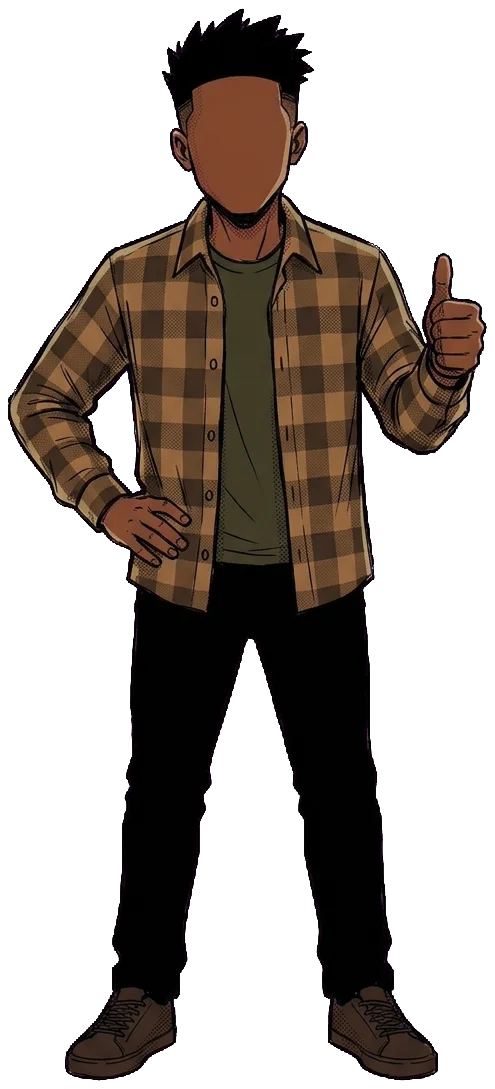
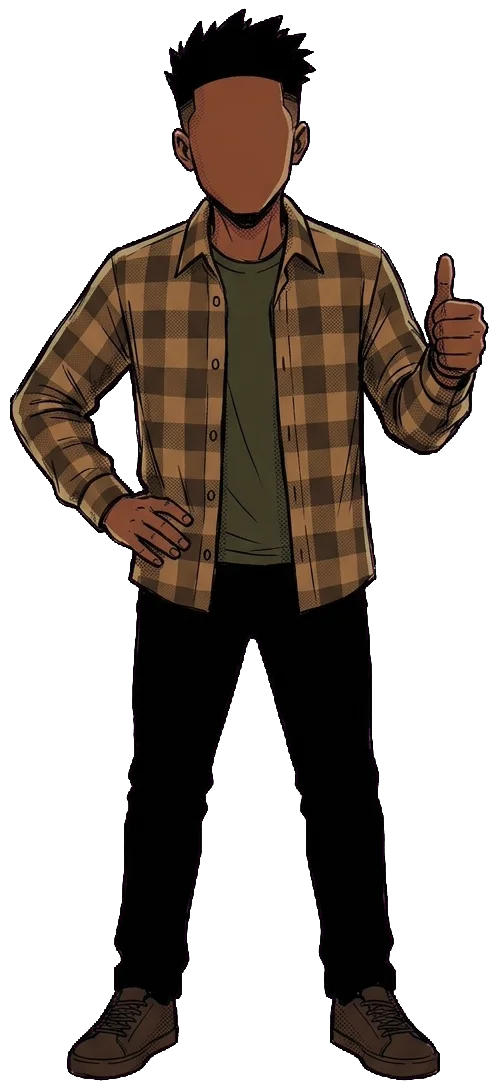
feat: click animations for every pose from Gemini frames
Clicking a figure plays a short clip of drawn frames: the hero waves (and
turns), pointing figures tap, the hanging ones do a pull-up, the sitting ones
kick their legs, thumbs-up goes double. CSS adds a body beat while a clip
plays (hop, bigger swing, pop) and the corner figure wiggles as his card
opens. Frames of a pose share one trim rectangle (new CROP option in the
cutout script) so they swap in place; a check guards that. Reduced motion
shows the key frame briefly instead of a sequence.

diff --git a/components/AnimatedPose.tsx b/components/AnimatedPose.tsx
@@ -1,0 +1,101 @@
+"use client";
+
+// A pose that plays a short clip when clicked: it swaps through drawn frames
+// (from public/character/cut/) while CSS adds body motion via data-playing.
+// The figures are a playful extra, not content, so they stay out of the tab
+// order (the hero's turn button is the keyboard-reachable one). With reduced
+// motion, a click shows the clip's key frame briefly instead of a sequence.
+
+import { useEffect, useRef, useState } from "react";
+import Pose, { type PoseName } from "./Pose";
+
+type Clip = {
+  /** Frames to step through; the last should be the pose itself. */
+  frames: string[];
+  /** Milliseconds per frame. */
+  ms: number;
+  /** The frame to show alone under reduced motion. */
+  key: string;
+};
+
+export const CLIPS: Partial<Record<PoseName, Clip>> = {
+  // waves the hand back and forth
+  wave: { frames: ["wave-a", "wave-b", "wave-a", "wave-b", "wave"], ms: 150, key: "wave-b" },
+  // a pull-up: up, hold, down
+  hang: { frames: ["hang-up", "hang-up", "hang-up", "hang"], ms: 220, key: "hang-up" },
+  // taps the point twice
+  point: { frames: ["point-back", "point-out", "point-back", "point-out", "point"], ms: 150, key: "point-back" },
+  // kicks his legs on the ledge
+  sit: { frames: ["sit-fwd", "sit-back", "sit-fwd", "sit-back", "sit"], ms: 170, key: "sit-fwd" },
+  // switches to a double thumbs up and holds it
+  thumbs: { frames: ["thumbs-double", "thumbs-double", "thumbs-double", "thumbs-double", "thumbs"], ms: 220, key: "thumbs-double" },
+};
+
+/** Plays a pose's clip; returns the current frame and a trigger. */
+export function useClip(pose: PoseName) {
+  const clip = CLIPS[pose];
+  const [frame, setFrame] = useState<string | undefined>();
+  const timers = useRef<number[]>([]);
+  const preloaded = useRef(false);
+
+  const preload = () => {
+    if (!clip || preloaded.current) return;
+    preloaded.current = true;
+    for (const f of new Set(clip.frames)) new Image().src = `/character/cut/${f}.webp`;
+  };
+
+  const play = () => {
+    if (!clip) return;
+    preload();
+    timers.current.forEach(clearTimeout);
+    const reduce = window.matchMedia("(prefers-reduced-motion: reduce)").matches;
+    const steps = reduce ? [clip.key, clip.frames[clip.frames.length - 1]] : clip.frames;
+    const ms = reduce ? 1200 : clip.ms;
+    setFrame(steps[0]);
+    timers.current = steps.slice(1).map((f, i) =>
+      window.setTimeout(() => setFrame(i === steps.length - 2 ? undefined : f), ms * (i + 1)),
+    );
+  };
+
+  useEffect(() => () => timers.current.forEach(clearTimeout), []);
+
+  return { frame, playing: frame !== undefined, play, preload };
+}
+
+export default function AnimatedPose({
+  pose,
+  flip,
+  className = "",
+}: {
+  pose: PoseName;
+  flip?: boolean;
+  className?: string;
+}) {
+  const { frame, playing, play, preload } = useClip(pose);
+  const ref = useRef<HTMLDivElement>(null);
+
+  // Fetch the frames once the figure is close to the screen, so the first
+  // click never shows a blank frame.
+  useEffect(() => {
+    const el = ref.current;
+    if (!el) return;
+    const io = new IntersectionObserver(
+      (entries) => {
+        if (entries.some((e) => e.isIntersecting)) {
+          preload();
+          io.disconnect();
+        }
+      },
+      { rootMargin: "300px" },
+    );
+    io.observe(el);
+    return () => io.disconnect();
+    // eslint-disable-next-line react-hooks/exhaustive-deps
+  }, []);
+
+  return (
+    <div ref={ref} onClick={play} className={`cursor-pointer ${className}`}>
+      <Pose pose={pose} frame={frame} flip={flip} playing={playing} className="h-full" />
+    </div>
+  );
+}

diff --git a/components/TurnablePose.tsx b/components/TurnablePose.tsx
@@ -1,10 +1,12 @@
 "use client";
 
-// The hero figure: click (or Enter/Space) and he turns to face the other way.
-// The mirror is animated as a quick turn through edge-on; with reduced motion
-// it flips instantly. A real toggle button, so it works from the keyboard.
+// The hero figure: click (or Enter/Space) and he turns to face the other way,
+// waving as he does. The mirror is animated as a quick turn through edge-on;
+// with reduced motion it flips instantly. A real toggle button, so it works
+// from the keyboard.
 
-import { useState } from "react";
+import { useEffect, useState } from "react";
+import { useClip } from "./AnimatedPose";
 import Pose, { type PoseName } from "./Pose";
 
 export default function TurnablePose({
@@ -15,17 +17,27 @@ export default function TurnablePose({
   className?: string;
 }) {
   const [turned, setTurned] = useState(false);
+  const { frame, playing, play, preload } = useClip(pose);
+
+  // The hero is on screen at load, so fetch the wave frames right away.
+  // eslint-disable-next-line react-hooks/exhaustive-deps
+  useEffect(() => preload(), []);
 
   return (
     <button
       type="button"
       aria-pressed={turned}
       aria-label="Turn the character around"
-      onClick={() => setTurned((t) => !t)}
+      onClick={() => {
+        setTurned((t) => !t);
+        play();
+      }}
       className={`cursor-pointer ${className}`}
     >
       <Pose
         pose={pose}
+        frame={frame}
+        playing={playing}
         eager
         flip={turned}
         className="h-full transition-transform duration-500 ease-in-out motion-reduce:transition-none"

diff --git a/components/Pose.tsx b/components/Pose.tsx
@@ -1,39 +1,48 @@
 // One of Tolu's drawn character poses. Decorative: the face stays blank and
 // the image carries no information, so it is hidden from assistive tech.
 
+// Natural sizes. Every animation frame of a pose shares that pose's size and
+// trim rectangle (see scripts/cut-character.sh, CROP), so frames swap in place.
 export const POSES = {
-  wave: { w: 442, h: 1072 },
-  hang: { w: 335, h: 1065 },
+  wave: { w: 476, h: 1072 },
+  hang: { w: 425, h: 1065 },
   point: { w: 615, h: 1091 },
-  sit: { w: 558, h: 1081 },
+  sit: { w: 638, h: 1081 },
   peek: { w: 604, h: 1200 },
-  thumbs: { w: 495, h: 1089 },
+  thumbs: { w: 498, h: 1089 },
 } as const;
 
 export type PoseName = keyof typeof POSES;
 
 export default function Pose({
   pose,
+  frame,
   className = "",
   flip,
   eager,
+  playing,
 }: {
   pose: PoseName;
+  /** An animation frame of this pose to show instead, e.g. "hang-up". */
+  frame?: string;
   className?: string;
   flip?: boolean;
   eager?: boolean;
+  /** Set while a click animation plays, so CSS can add body motion. */
+  playing?: boolean;
 }) {
   const { w, h } = POSES[pose];
   return (
     // eslint-disable-next-line @next/next/no-img-element
     <img
-      src={`/character/cut/${pose}.webp`}
+      src={`/character/cut/${frame ?? pose}.webp`}
       alt=""
       aria-hidden="true"
       width={w}
       height={h}
       data-pose={pose}
       data-flip={flip ? "" : undefined}
+      data-playing={playing ? "" : undefined}
       loading={eager ? "eager" : "lazy"}
       decoding="async"
       {...(eager ? { fetchPriority: "high" as const } : {})}

diff --git a/app/globals.css b/app/globals.css
@@ -104,6 +104,51 @@
     img[data-pose="point"] { --idle: pose-lean; --idle-time: 3.2s; }
     img[data-pose="thumbs"] { --idle: pose-pop; --idle-time: 3.5s; }
   }
+
+  /* While a click clip plays (frames swap in AnimatedPose), the idle loop
+     stops and the body adds its own beat. These come last so they win. */
+  img[data-pose][data-playing] {
+    animation: none;
+  }
+  img[data-pose="sit"][data-playing] {
+    animation: pose-hop 0.5s ease-out;
+  }
+  img[data-pose="thumbs"][data-playing] {
+    animation: pose-pop-big 0.45s ease-out;
+  }
+  img[data-pose="hang"][data-playing] {
+    transform-origin: 50% 2%;
+    animation: pose-swing-big 0.9s ease-in-out;
+  }
+
+  /* The corner figure wiggles hello as his contact card opens. */
+  img[data-peek][data-open] {
+    transform-origin: 100% 100%;
+    animation: peek-wiggle 0.6s ease-in-out;
+  }
+}
+
+@keyframes pose-hop {
+  0%, 100% { translate: 0 0; }
+  35% { translate: 0 -18px; }
+  60% { translate: 0 0; }
+  75% { translate: 0 -5px; }
+}
+@keyframes pose-pop-big {
+  0%, 100% { scale: 1; }
+  40% { scale: 1.06; }
+}
+@keyframes pose-swing-big {
+  0%, 100% { rotate: 0deg; }
+  25% { rotate: -5deg; }
+  60% { rotate: 4deg; }
+  85% { rotate: -1.5deg; }
+}
+@keyframes peek-wiggle {
+  0%, 100% { rotate: 0deg; }
+  20% { rotate: -6deg; }
+  45% { rotate: 5deg; }
+  70% { rotate: -3deg; }
 }
 
 @keyframes pose-swing {

diff --git a/components/ProjectCard.tsx b/components/ProjectCard.tsx
@@ -1,7 +1,8 @@
 import type { projects } from "@/lib/data";
 import { diagrams } from "./diagrams";
 import HandNote from "./HandNote";
-import Pose, { type PoseName } from "./Pose";
+import AnimatedPose from "./AnimatedPose";
+import { type PoseName } from "./Pose";
 
 type Project = (typeof projects)[number];
 
@@ -22,22 +23,22 @@ export function StagedPose({ staging }: { staging: Staging }) {
 
   if (how === "sit") {
     return (
-      <div className={`relative mx-auto aspect-[558/1081] ${poseHeight}`}>
+      <div className={`relative mx-auto aspect-[638/1081] ${poseHeight}`}>
         {/* the ledge he sits on; the seat line is at ~59% of the pose */}
         <span
           aria-hidden="true"
           className="absolute -inset-x-[30%] bottom-0 top-[57%] rounded-t-brutal-sm border-3 border-b-0 border-ink bg-white bg-[radial-gradient(#11111133_1px,transparent_1px)] [background-size:16px_16px]"
         />
-        <Pose pose={pose} flip={flip} className="relative h-full" />
+        <AnimatedPose pose={pose} flip={flip} className="relative h-full" />
       </div>
     );
   }
 
   return (
-    <Pose
+    <AnimatedPose
       pose={pose}
       flip={flip}
-      className={`mx-auto ${poseHeight} ${how === "hang" ? "-mt-[3%]" : ""}`}
+      className={`mx-auto w-fit ${poseHeight} ${how === "hang" ? "-mt-[3%]" : ""}`}
     />
   );
 }

diff --git a/components/ContactPanel.tsx b/components/ContactPanel.tsx
@@ -1,6 +1,6 @@
 import { emailHref, hero, party, socialLinks } from "@/lib/data";
 import { iconMap } from "./icons";
-import Pose from "./Pose";
+import AnimatedPose from "./AnimatedPose";
 
 export default function ContactPanel() {
   return (
@@ -48,10 +48,10 @@ export default function ContactPanel() {
 
         {/* points left, back at the Recruit button */}
         <div className="flex items-end justify-center">
-          <Pose
+          <AnimatedPose
             pose="point"
             flip
-            className="h-[300px] sm:h-[360px] lg:h-[min(540px,70svh)]"
+            className="w-fit h-[300px] sm:h-[360px] lg:h-[min(540px,70svh)]"
           />
         </div>
       </div>

diff --git a/components/PeekContact.tsx b/components/PeekContact.tsx
@@ -175,6 +175,8 @@ export default function PeekContact() {
         <img
           src="/character/cut/peek.webp"
           alt=""
+          data-peek=""
+          data-open={open ? "" : undefined}
           width={POSES.peek.w}
           height={POSES.peek.h}
           loading="lazy"
